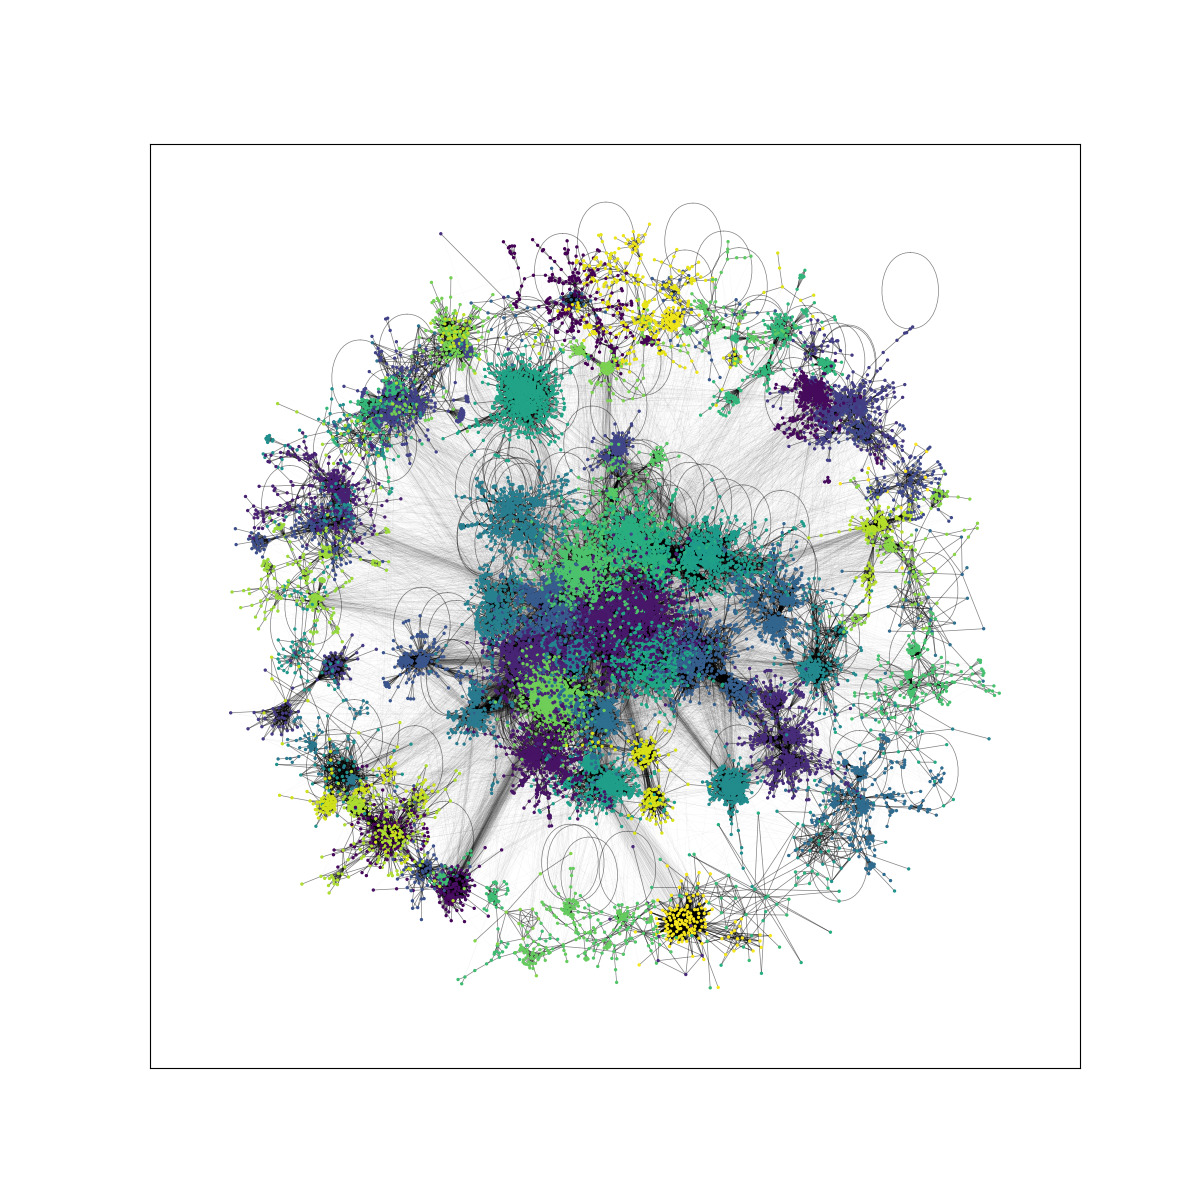
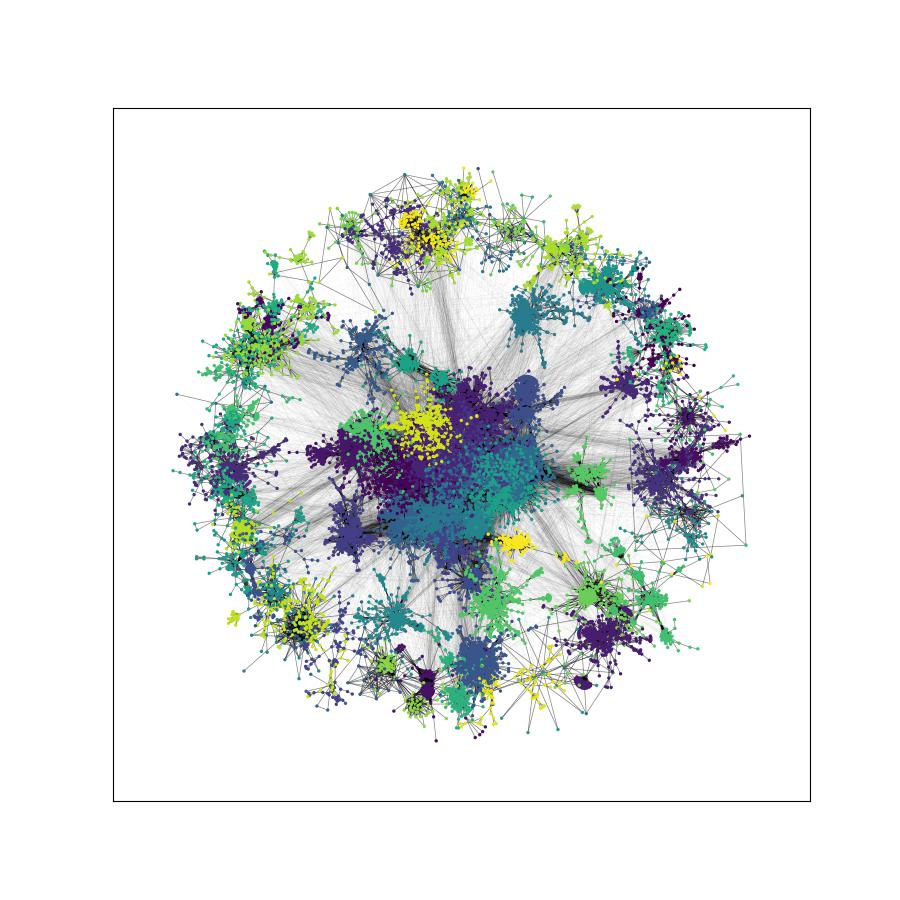
Ready for pip publishing

Changed region(s): [[0.1867, 0.1867, 0.84, 0.8089]]

diff --git a/src/community_layout/layout_class.py b/src/community_layout/layout_class.py
@@ -28,7 +28,7 @@ def load_original():
 class CommunityLayout:
     def __init__(self, G,
                  layout_algorithm = nx.spring_layout, layout_kwargs = {"k":75, "iterations":1000},
-                 community_compression = 0.25, community_algorithm = community.louvain_communities, community_kwargs = {"resolution":2}):
+                 community_compression = 0.15, community_algorithm = community.louvain_communities, community_kwargs = {"resolution":2}):
         """
         Community layout class init.
         Takes user-specified layout and community detection algorithms and lays out a meta-graph and sub-graphs for each community.
@@ -145,10 +145,11 @@ class CommunityLayout:
         # Draw nodes and edges using above and self.full_positions
         if ax is None:
             fig, ax = plt.subplots(figsize=(12, 12))
+            save = True
         nx.draw_networkx_nodes(self.G, pos=self.full_positions, node_size=2, ax = ax, node_color=colors)
         nx.draw_networkx_edges(self.G, pos=self.full_positions, node_size=2, width=alphas, alpha=alphas, ax = ax)
 
-        if ax is None:
+        if save:
             plt.savefig("community_laid_out.png")
             plt.show()
         else:

diff --git a/README.md b/README.md
@@ -1,6 +1,8 @@
 # Community Layout
 ### Layout of large networkx graphs with community segmentation
 
+![](https://raw.githubusercontent.com/neutralpronoun/CommunityLayout/main/community_layout_example.jpeg)
+
 A small package used to visualise community-structured networkx graphs.
 
 Layout of communities individually, with communities themselves arranged according to their inter-links, allows far faster visualisation of large graphs.
@@ -61,7 +63,7 @@ Note: Edge bundling is currently a much heavier process than the community layou
 
 ### Requirements
 
-Requires the packages `numpy`, `pandas`, `tqdm` and `networkx` to be installed.
+Requires the packages `numpy`, `pandas`, `tqdm`, `scipy` and `networkx` to be installed.
 
 `matplotlib` is required for figure plotting. Edge bundling requires `datashader` and `scikit-image`.
 
